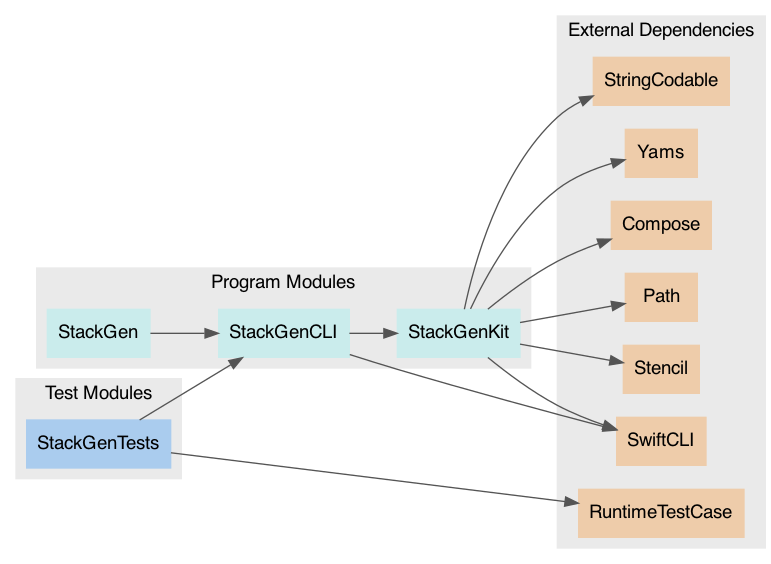
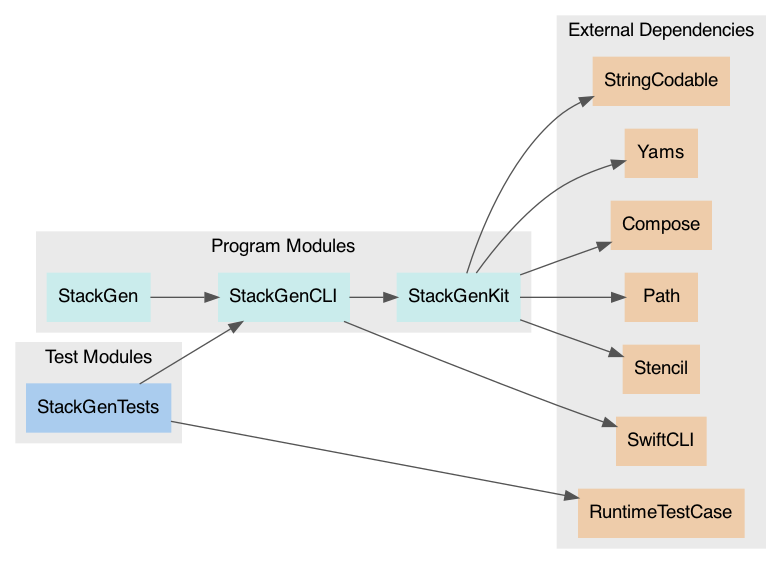
Removed not needed dependency

diff --git a/Package.swift b/Package.swift
@@ -46,7 +46,6 @@ let package = Package(
                 "Yams",
                 "Path",
                 "StringCodable",
-                "SwiftCLI",
                 "Compose",
             ]
         ),

diff --git a/Documentation/PackageReference/Package.md b/Documentation/PackageReference/Package.md
@@ -19,7 +19,7 @@ _Libraries denoted 'automatic' can be both static or dynamic._
 | ------ | ---- | ------------ |
 | StackGen | Regular | StackGenCLI |
 | StackGenCLI | Regular | StackGenKit, SwiftCLI |
-| StackGenKit | Regular | Compose, Path, Stencil, StringCodable, SwiftCLI, Yams |
+| StackGenKit | Regular | Compose, Path, Stencil, StringCodable, Yams |
 
 ### Test Modules
 
